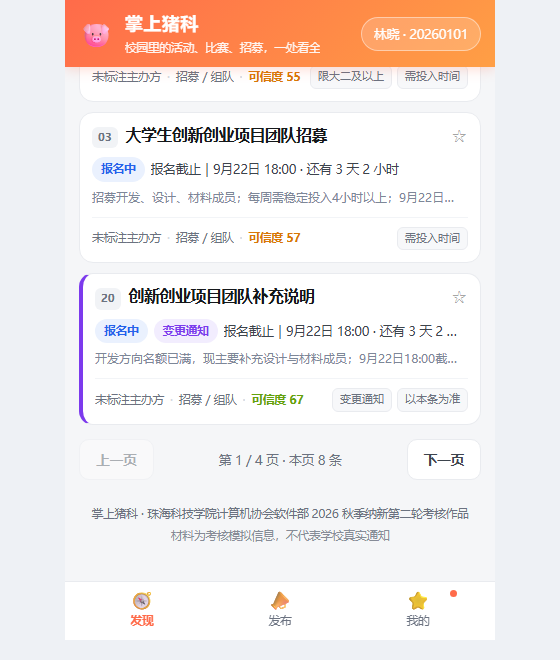
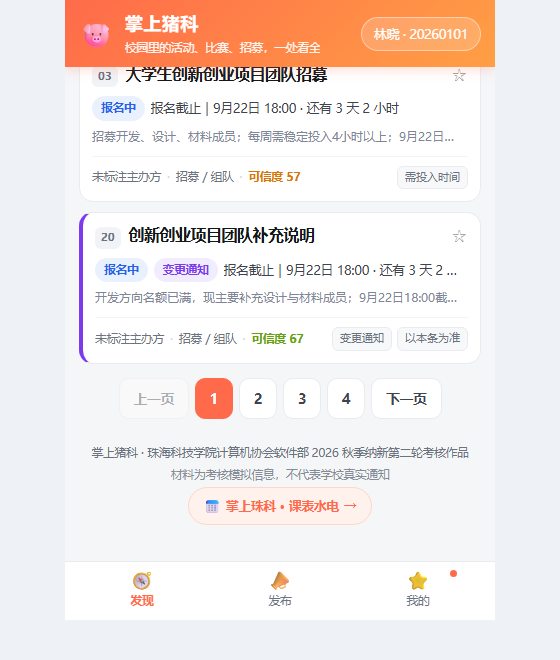
feat: 分页支持直接选择页码
- 分页栏改为「上一页 + 页码 + 下一页」版式，当前页高亮显示
- 页数较多时仅展示首页、末页与当前页附近，中间以省略号折叠
- 页码按钮窄屏下自动换行，不再依赖「第 x / y 页」文字说明
- 更新分页栏截图

diff --git a/assets/js/app.js b/assets/js/app.js
@@ -612,16 +612,41 @@
     $('#mineDot').classList.toggle('is-on', mineCount > 0);
   }
 
-  /** 分页栏：结果多于一页时出现 */
+  /** 页码序列：页数多时只列首尾与当前页附近，中间用省略号 */
+  function pageList(current, total) {
+    var out = [], i;
+    if (total <= 7) {
+      for (i = 1; i <= total; i++) out.push(i);
+      return out;
+    }
+    out.push(1);
+    var start = Math.max(2, current - 1);
+    var end = Math.min(total - 1, current + 1);
+    if (start > 2) out.push('gap');
+    for (i = start; i <= end; i++) out.push(i);
+    if (end < total - 1) out.push('gap');
+    out.push(total);
+    return out;
+  }
+
+  /** 分页栏：结果多于一页时出现，可直接选择页码 */
   function renderPager(total, pages, shown) {
     var pager = $('#pager');
     if (!pager) return;
     if (total <= PAGE_SIZE) { pager.hidden = true; pager.innerHTML = ''; return; }
     pager.hidden = false;
+
+    var nums = pageList(S.page, pages).map(function (p) {
+      if (p === 'gap') return '<span class="page-gap" aria-hidden="true">…</span>';
+      return '<button class="page-btn page-num' + (p === S.page ? ' is-active' : '') + '"' +
+        ' data-page="' + p + '" type="button"' +
+        (p === S.page ? ' aria-current="page"' : '') + '>' + p + '</button>';
+    }).join('');
+
     pager.innerHTML =
-      '<button class="page-btn" data-page="prev" type="button"' + (S.page <= 1 ? ' disabled' : '') + '>上一页</button>' +
-      '<span class="page-info">第 ' + S.page + ' / ' + pages + ' 页 · 本页 ' + shown + ' 条</span>' +
-      '<button class="page-btn" data-page="next" type="button"' + (S.page >= pages ? ' disabled' : '') + '>下一页</button>';
+      '<button class="page-btn page-nav" data-page="prev" type="button"' + (S.page <= 1 ? ' disabled' : '') + '>上一页</button>' +
+      nums +
+      '<button class="page-btn page-nav" data-page="next" type="button"' + (S.page >= pages ? ' disabled' : '') + '>下一页</button>';
   }
 
   /** 翻页：重绘后把列表顶部对齐到视口上方 */
@@ -643,7 +668,10 @@
     $('#pager').addEventListener('click', function (ev) {
       var b = ev.target.closest('button[data-page]');
       if (!b || b.disabled) return;
-      goPage(b.dataset.page === 'next' ? S.page + 1 : S.page - 1);
+      var v = b.dataset.page;
+      if (v === 'prev') goPage(S.page - 1);
+      else if (v === 'next') goPage(S.page + 1);
+      else goPage(Number(v));
     });
 
     $('#quickbar').addEventListener('click', function (ev) {

diff --git a/assets/css/app.css b/assets/css/app.css
@@ -238,14 +238,27 @@ button { font: inherit; cursor: pointer; }
 .trust-bar i.lv-risk { background: var(--danger); }
 
 /* ---------------- 分页 ---------------- */
-.pager { display: flex; align-items: center; justify-content: space-between; gap: 10px; margin-top: 14px; }
+.pager {
+  display: flex; align-items: center; justify-content: center; flex-wrap: wrap;
+  gap: 6px; margin-top: 14px;
+}
 .page-btn {
   flex: none; border: 1px solid var(--line); background: var(--surface); color: var(--ink-2);
-  border-radius: var(--radius-sm); padding: 9px 16px; font-size: 13.5px; font-weight: 600;
-  transition: border-color .15s, color .15s;
+  border-radius: var(--radius-sm); padding: 9px 14px; font-size: 13.5px; font-weight: 600;
+  transition: border-color .15s, color .15s, background .15s;
 }
 .page-btn:hover:not(:disabled) { border-color: var(--brand); color: var(--brand); }
 .page-btn:disabled { opacity: .4; cursor: not-allowed; }
+/* 可点击的页码 */
+.page-num {
+  min-width: 38px; padding: 9px 0; text-align: center;
+  font-variant-numeric: tabular-nums;
+}
+.page-num.is-active {
+  background: var(--brand); border-color: var(--brand); color: #fff;
+}
+.page-num.is-active:hover { background: var(--brand); color: #fff; }
+.page-gap { color: var(--muted); font-size: 13px; padding: 0 2px; }
 .page-info { flex: 1; text-align: center; font-size: 12.5px; color: var(--muted); font-variant-numeric: tabular-nums; }
 
 .empty { text-align: center; padding: 40px 16px; color: var(--muted); font-size: 14px; }
